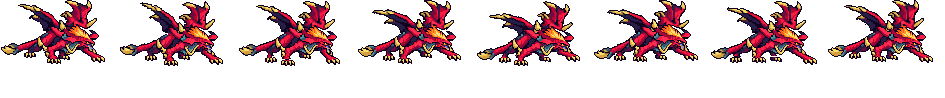
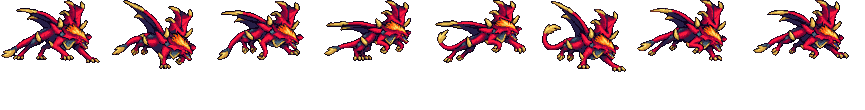
龙女龙形态的跑步换成 Codex 重画的那版（收小前后晃）；league.dll 0.9.128、主包 0.455.0
用户「龙女变形的龙的跑步姿势也可以让codex重画一下 现在也很僵硬」，两版对比后「收小前后晃」。
Codex 第二版正好画在模板的 8 像素网格上、只用设计图的颜色：read_shyvana_dragon_run.py 逐格读回，
每帧整帧平移 0–6 格（不改方块），身子照英雄联盟 run1 的节奏前后晃 ±2 格，不再在第 6 帧往前冲、
接回第 1 帧往回跳。rig_shyvana.py 有这 8 帧就拿它们当 d_run。只换 d_run / hd_d_run / lo_d_run，
走的是验证过的那条：绑骨导出、1x 拼进整张图、restyle、hd、thin_outline（拿旧帧走一遍和提交逐像素一致）。
龙女的帧表编在 hd.rs 里，league.dll 跟着换号。

diff --git a/tools/art/read_shyvana_dragon_run.py b/tools/art/read_shyvana_dragon_run.py
@@ -1,0 +1,122 @@
+#!/usr/bin/env python3
+"""龙女龙形态跑步的 Codex 重画读回来（用户 2026-11-22：「龙女变形的龙的跑步姿势也可以让codex重画一下 现在也很僵硬」
+「codex交付了」）。
+
+Codex 交了两版（assets/source/shyvana/codex_dragon_run/：用的是第二版 run_1.png、run_2.png，raw_v2.png 是它生成的原图）。
+两张都和模板一样：2048 x 1920，2 x 2 格，每格 1024 x 960，每个 8 x 8 块都是一个颜色、对齐模板的网格，透明度只有 0 / 255。
+所以这里不用猜网格：
+
+1. 每格每 8 像素取一个点，得到 128 x 120 格的一帧（设计图的一格）；
+2. 每格的颜色换成设计图（assets/source/shyvana/hd/d_idle.png）里最接近的那个；
+3. 放进 rig_shyvana.py 的画布：模板的十字（第 64 列、第 60 行）就是站位点，地面线在它下面 17 格（第 77 行），所以格子
+   (x, y) 放到画布 (x - 64 + CX, y - 77 + GY)，帧和帧之间的上下原样保留；
+4. 每帧整帧左右平移 STEADY 格（见下），身子的前后晃收到英雄联盟那么大；
+5. 写 assets/source/shyvana/codex_dragon_run/frames/d_run_<1..8>.png（画布大小）。rig_shyvana.py 看到这 8 张就拿它们当 d_run
+   （SHYVANA_RIG_RUN=1 还是原来挪方块那版）。
+
+    python tools/art/read_shyvana_dragon_run.py [--as-drawn] [--preview DIR]
+"""
+import argparse
+import os
+import sys
+
+import numpy as np
+from PIL import Image
+
+HERE = os.path.dirname(os.path.abspath(__file__))
+ROOT = os.path.dirname(os.path.dirname(HERE))
+sys.path.insert(0, HERE)
+SRC = os.path.join(ROOT, "assets", "source", "shyvana", "codex_dragon_run")
+OUT = os.path.join(SRC, "frames")
+DESIGN = os.path.join(ROOT, "assets", "source", "shyvana", "hd", "d_idle.png")
+SQ = 8
+CELL = (1024, 960)
+PIVOT = (64, 60)           # 模板十字所在的格
+GROUND = PIVOT[1] + 17     # 模板地面线所在的格（这一行往上是脚）
+# Codex 画的第 6-8 帧整条龙比 1-5 帧靠前 6-7 格，循环接回第 1 帧时往回跳 8 格（鬃毛和全身方块的平均位置都这样）。
+# 每帧整帧左右平移这么多格（不改一个方块），让身子（鬃毛和全身中心的平均）照英雄联盟 run1 头的前后晃走：
+# 联盟 [+1.8, +0.5, -0.9, -1.4, -0.8, -1.0, +0.3, +1.5] 格（native_pose 渲的头的位置，0.64 格一联盟像素）。
+# 用户两版对比后选了「收小前后晃」，默认就平移；--as-drawn 是 Codex 原样
+STEADY = [6, 3, 1, 0, 1, -6, -4, -3]
+
+
+def palette():
+    d = np.array(Image.open(DESIGN).convert("RGBA"))
+    return np.unique(d[d[..., 3] > 0][:, :3], axis=0).astype(int)
+
+
+def cells():
+    """8 帧，每帧 120 x 128 格（RGBA）。先确认每个 8 x 8 块都是一个颜色。"""
+    out = []
+    for name in ("run_1.png", "run_2.png"):
+        a = np.array(Image.open(os.path.join(SRC, name)).convert("RGBA"))
+        H, W = a.shape[:2]
+        b = a.reshape(H // SQ, SQ, W // SQ, SQ, 4)
+        if not (b == b[:, :1, :, :1]).all():
+            sys.exit(f"{name}: 有不是一个颜色的 8 x 8 块，网格对不上")
+        g = a[::SQ, ::SQ]
+        ch, cw = CELL[1] // SQ, CELL[0] // SQ
+        for k in range(4):
+            y0, x0 = (k // 2) * ch, (k % 2) * cw
+            out.append(g[y0:y0 + ch, x0:x0 + cw].copy())
+    return out
+
+
+def snap(f, pal):
+    """不透明的格换成设计图里最近的颜色；返回（新帧，换掉的格数，最大色差）。"""
+    out = np.zeros_like(f)
+    op = f[..., 3] > 0
+    cols = f[op][:, :3].astype(int)
+    d2 = ((cols[:, None, :] - pal[None, :, :]) ** 2).sum(-1)
+    k = d2.argmin(1)
+    new = pal[k]
+    out[op, :3] = new
+    out[op, 3] = 255
+    moved = int((new != cols).any(1).sum())
+    return out, moved, float(np.sqrt(d2.min(1).max())) if len(cols) else 0.0
+
+
+def main():
+    ap = argparse.ArgumentParser()
+    ap.add_argument("--preview")
+    ap.add_argument("--as-drawn", action="store_true", help="Codex 原样，不平移 STEADY")
+    a = ap.parse_args()
+    os.environ["SHYVANA_RIG_RUN"] = "1"
+    import rig_shyvana as RS
+    C = RS.Canvas()
+    pal = palette()
+    frames = cells()
+    os.makedirs(OUT, exist_ok=True)
+    out = []
+    for k, f in enumerate(frames):
+        s, moved, worst = snap(f, pal)
+        can = C.blank()
+        ys, xs = np.nonzero(s[..., 3] > 0)
+        ty, tx = ys - GROUND + C.rig.GY, xs - PIVOT[0] + C.rig.CX + (0 if a.as_drawn else STEADY[k])
+        ok = (ty >= 0) & (ty < can.shape[0]) & (tx >= 0) & (tx < can.shape[1])
+        if not ok.all():
+            sys.exit(f"frame {k + 1}: {int((~ok).sum())} 格落到画布外")
+        can[ty, tx] = s[ys, xs]
+        out.append(can)
+        Image.fromarray(can).save(os.path.join(OUT, f"d_run_{k + 1}.png"))
+        print(f"frame {k + 1}: {len(ys)} 格, 最低一行 {ys.max()} (地面线 {GROUND}), 列 {xs.min()}..{xs.max()}, "
+              f"换色 {moved} 格, 最大色差 {worst:.1f}")
+    if a.preview:
+        os.makedirs(a.preview, exist_ok=True)
+        x0 = min(np.nonzero(c[..., 3] > 0)[1].min() for c in out) - 2
+        x1 = max(np.nonzero(c[..., 3] > 0)[1].max() for c in out) + 3
+        y0 = min(np.nonzero(c[..., 3] > 0)[0].min() for c in out) - 2
+        y1 = C.rig.GY + 2
+        tiles = [c[y0:y1, x0:x1] for c in out]
+        z = 3
+        W = sum(t.shape[1] + 2 for t in tiles)
+        im = Image.new("RGBA", (W, y1 - y0), (96, 112, 96, 255))
+        x = 0
+        for t in tiles:
+            im.alpha_composite(Image.fromarray(t), (x, 0))
+            x += t.shape[1] + 2
+        im.resize((W * z, (y1 - y0) * z), Image.NEAREST).save(os.path.join(a.preview, "codex_d_run_read.png"))
+
+
+if __name__ == "__main__":
+    main()

diff --git a/tools/art/rig_shyvana.py b/tools/art/rig_shyvana.py
@@ -729,6 +729,11 @@ def dragon_frames(C):
     head = [(1, 0), (1, -1), (1, 0), (1, 1), (1, 0), (1, -1), (1, 0), (1, 1)]
     out["d_run"] = [dragon_run(C, RL, k, far_wing=b, near_wing=-b * 0.5, tail=t, head=h)
                     for k, (b, t, h) in enumerate(zip(beat, tail, head))]
+    # 2026-11-22 用户「龙女变形的龙的跑步姿势也可以让codex重画一下 现在也很僵硬」：Codex 照英雄联盟 run1 重画的 8 帧
+    # （tools/art/read_shyvana_dragon_run.py 读回的画布）在就用它们；SHYVANA_RIG_RUN=1 还是上面挪方块的那版
+    codex = [os.path.join(SRC, "codex_dragon_run", "frames", f"d_run_{k}.png") for k in range(1, 9)]
+    if all(os.path.isfile(f) for f in codex) and not os.environ.get("SHYVANA_RIG_RUN"):
+        out["d_run"] = [np.array(Image.open(f).convert("RGBA")) for f in codex]
     # auto attack (League's Attack1: drawn back low, the head and the near fore claw thrown forward, the claw raking
     # down; the hit at ~230 ms = tick 14): drawn back, the claw raised, thrown forward, the rake (frame 4, the hit),
     # held, back

diff --git a/addons/league_main/src/lib.rs b/addons/league_main/src/lib.rs
@@ -122,7 +122,7 @@ mod stack_rows {
 }
 
 pub const ID: &str = "league";
-const VERSION: &str = "0.9.127";
+const VERSION: &str = "0.9.128";
 
 static LOG_LOCK: Mutex<()> = Mutex::new(());
 static LOG_FILE: Mutex<Option<std::fs::File>> = Mutex::new(None);

diff --git a/README.md b/README.md
@@ -43,7 +43,7 @@
 - **阿克尚复活的大字不再挂到下一局**（用户截图是下一局的禁选画面：「对局结束后阿克尚的这个复活提示还在」）：复活后一两秒比赛就结束，屏幕时钟停在大字的 3 秒里，`is_in_game()` 在禁选、结算画面也是真的，大字就一直挂着。现在只在比赛画面上画（时钟标签在屏幕上、游戏说的界面不是结算之类，龙魂 0.3.11 修同样毛病的判断）。league_akshan 0.2.10。
 - **巨型纳尔的跑步由 Codex 重画**（「纳尔变大后没有动画效果」「像一张图在平移」「纳尔变大后右上腿不动了？」「不然你让codex帮忙 这个大纳尔」，三版对比后「用 Codex 版」）：游戏换动作、循环都没问题，是 8 帧本身只把小腿挪几格、身子不动。先自己重绑了一版（`tools/art/rig_gnar.py`，`GNAR_RIG_RUN=1` 还能出这版），最后装的是 Codex 照提示词（`assets/source/gnar/MEGA_RUN_PROMPT.md`）重画的 8 帧：撑着拳头往前蹦，身子前后摇、上下起伏，四条腿都迈。`tools/art/read_gnar_mega_run.py` 按 3.75 像素一格读回，颜色归到设计图的调色板，脚落在地面线上。只换 `m_run` / `hd_m_run` / `lo_m_run`，别的标签逐像素不变；纳尔的帧表编在 league.dll 里，所以 league.dll 0.9.127、主包 0.454.0。
 - **锤石的灯笼照英雄联盟做**（「锤石的灯笼是不是完全没有 我是没见过」「用PPU弄成高清的啊」）：灯笼以前每 tick 飞 5000、一眨眼就到，落地只剩护盾。现在每 tick 飞 1400、看得见；落在最危险的队友身边，在地上亮 6 秒，灯边上有危险的队友碰灯就被拉回锤石身边。灯笼照锤石手里那盏由 Codex 重画（`assets/source/thresh/LANTERN_PROMPT.md`），做成单独一张 PPU 5 的特效图 `league_thresh_lantern`（`tools/art/fx_thresh_lantern.py`：飞的 `w_lantern`、地上的 `w_ground`）。league_thresh_lantern 0.2.0；league.dll 0.9.125（特效表多了这张图）、主包 0.452.0。
-- **龙女龙形态的跑步交给 Codex 重画**（「龙女变形的龙的跑步姿势也可以让codex重画一下 现在也很僵硬」）：现在的 `d_run` 身子原样不动、四只爪各挪 3 格。`tools/art/pack_shyvana_dragon_run.py` 出模板（影子只有头、身子、两只翅膀，按英雄联盟 run1 每帧胸口和骨盆的起伏上下挪；腿和尾巴留给 Codex 照联盟同一帧画）和参考图（联盟 run1 同 8 帧在我们镜头下的渲染），提示词 `assets/source/shyvana/DRAGON_RUN_PROMPT.md`。交回后读回、拼进去，给用户看过再装。
+- **龙女龙形态的跑步由 Codex 重画**（「龙女变形的龙的跑步姿势也可以让codex重画一下 现在也很僵硬」「codex交付了」，两版对比后「收小前后晃」）：以前的 `d_run` 身子原样不动、四只爪各挪 3 格。`tools/art/pack_shyvana_dragon_run.py` 出模板（影子只有头、身子、两只翅膀，按英雄联盟 run1 每帧的起伏挪；腿和尾巴照联盟同一帧画）和参考图（联盟 run1 同 8 帧在我们镜头下的渲染），提示词 `assets/source/shyvana/DRAGON_RUN_PROMPT.md`。Codex 的第二版正好画在模板的 8 像素网格上、只用设计图的颜色，`tools/art/read_shyvana_dragon_run.py` 逐格读回；Codex 画的第 6–8 帧整条龙靠前 6–7 格、接回第 1 帧往回跳 8 格，`--steady` 每帧整帧平移 0–6 格（不改一个方块），身子照联盟的节奏前后晃 ±2 格。头和设计图一样大；近侧翅膀右半边比设计图窄 4–6 格（Codex 的画法，8 帧一致）。`rig_shyvana.py` 有这 8 帧就拿它们当 `d_run`（`SHYVANA_RIG_RUN=1` 还是挪方块那版），只换 `d_run` / `hd_d_run` / `lo_d_run`，再过一遍 `thin_outline.py`；龙女的帧表编在 league.dll 里，所以 league.dll 0.9.128、主包 0.455.0。
 
 2026-11-22（终末的女武神 0.8.0）：
 
